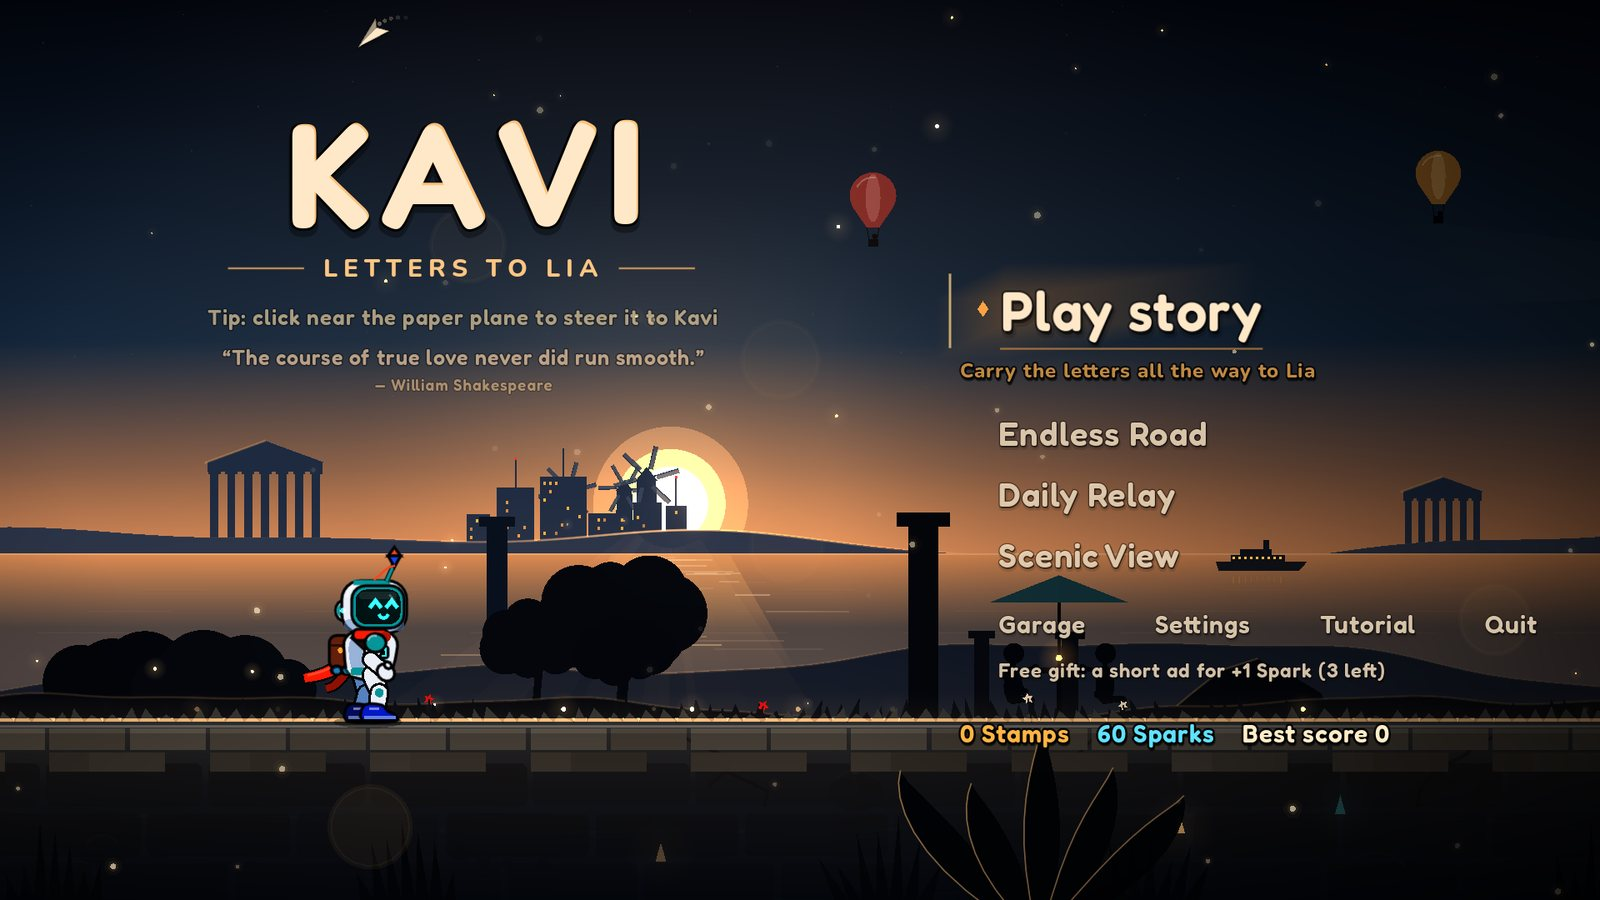
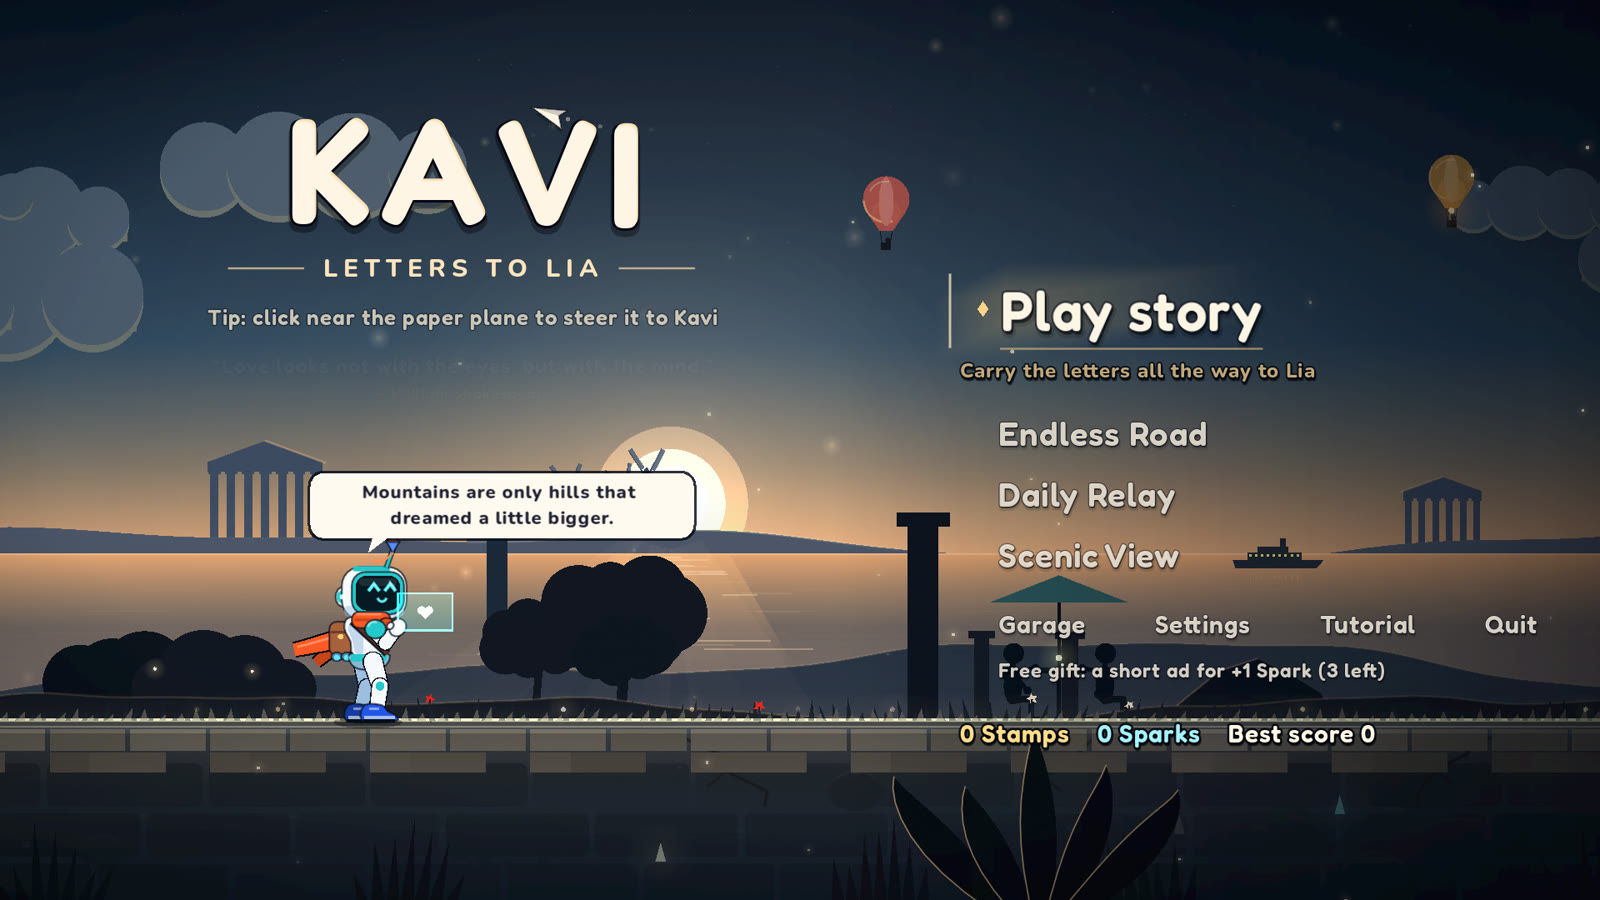
README: new marketing page with fresh screenshots (Kavi, Lia v4, new obstacles, suits, handheld); --market capture mode

diff --git a/README.md b/README.md
@@ -1,68 +1,86 @@
 # KAVI: Letters to Lia
 
-![KAVI: Letters to Lia](docs/media/keyart.jpg)
+![Kavi and Lia meet at last](docs/media/keyart.jpg)
 
-**Kavi** is a little courier robot (his name means "poet") with a screen for a face, a sunset-orange scarf and a bag full of letters. He runs across Europe, from the Greek coast through Bulgarian forests and along the Danube to the Romanian mountains, to reach his friend **Lia**.
+### A little robot. A long road. One letter that has to arrive.
 
-A cozy, family-friendly 2D auto-runner made in Godot 4.7. Everything you see and hear (characters, worlds, obstacles, music) is generated in code.
+**Kavi** (his name means *poet*) is a tiny courier robot with a screen for a face, a sunset-orange scarf and a bag full of letters. Lia is waiting at the other end of Europe. Between them: sea cliffs, lantern forests, a river of mirrors and mountains full of stars.
 
-*(This repo used to be the game VOLT/RUN; Kite and Lumi are now Kavi and Lia.)*
+**A cozy, family-friendly 2D runner** that's quick to pick up and hard to put down. Every picture, song and sound in it is made in code: no stock art, no samples.
 
-## ▶ Play now
+## ▶ Play free, right now
 
-**In your browser, no install: https://badcool-interactive.github.io/KAVI-Letters-To-Lia/**
-Works on desktop, Android (Chrome) and iPhone/iPad (Safari). Turn your phone sideways.
+### **[Play in your browser](https://badcool-interactive.github.io/KAVI-Letters-To-Lia/)** · no install, no account
 
-**Download** the latest build from **[Releases](../../releases/latest)**:
+Or download it from **[Releases](../../releases/latest)**:
 
 | Platform | File | How to run |
 |---|---|---|
 | Windows 10/11 | `KAVI-windows.exe` | Double-click it. It isn't signed yet, so SmartScreen may warn: choose *More info → Run anyway*. |
-| Android | `KAVI-android.apk` | Copy it to the phone, open it, and allow "install unknown apps". Play in landscape. |
+| Android | `KAVI-android.apk` | Open it on the phone and allow "install unknown apps". If Play Protect warns, choose *Install anyway* (preview build). |
 | Linux | `KAVI-linux.x86_64` | `chmod +x KAVI-linux.x86_64 && ./KAVI-linux.x86_64` |
 
-## A world to run through
+## Four countries, one journey
 
-![Four countries](docs/media/countries.jpg)
+![The Amber Shore, Lanternwood, Mirrorwater and Starfall Heights](docs/media/countries.jpg)
 
-Four countries, each with its own sky, music, people and ground: **The Amber Shore** (Greece), **Lanternwood** (Bulgaria), **Mirrorwater** (the Danube) and **Starfall Heights** (Romania). The world changes smoothly as you run, and the sun and moon set behind the hills.
+**The Amber Shore** (Greece) · **Lanternwood** (Bulgaria) · **Mirrorwater** (the Danube) · **Starfall Heights** (Romania)
 
-![Obstacles](docs/media/obstacles.jpg)
+Each country has its own sky, people, ground, obstacles, **its own song** and its own sounds: gulls and waves, a woodpecker in the forest, church bells across the river, cowbells in the mountains. The world flows from one country into the next as you run, and the sun sets behind the hills.
 
-Every country has its own obstacles: Greek amphoras and orange crates, forest log piles, Danube barrels and mountain snowmen to hop over; shop signs on gateways to scoot under; and gaps above the sea, ravines and ice. A perfect clear makes them wobble and burst into confetti.
+## Easy to learn, fun to master
 
-## The title screen is a toy too
+![A runaway cart, a pigeon flock and a parcel tower](docs/media/obstacles.jpg)
 
-![Title screen](docs/media/title.jpg)
+Four moves, one thumb each: **Hop** (hold to hover), **Scoot** (dive in the air), **Gust** (blow things open) and **Letter** (a paper plane that rings bells and drops bridges).
 
-- **Paper-plane mini-game:** click near the plane to push it, and steer it to Kavi so it circles him. Click too fast and it stalls!
-- **Click the sky:** balloons hop and wave (click three times quickly to send one flying), the plane draws a smoke heart, ships toot their horns, and birds scatter.
-- **Kavi's notebook:** his own little poems, mixed with short public-domain love lines from Shakespeare, Byron, Dickinson, Tagore, Burns and others.
+- **Obstacles with personality:** a **runaway fruit cart** rolling straight at you, **pigeons** you can scoot under *or* gust away ("SHOO!"), a wobbly **parcel tower** with a cat napping on top, Greek amphoras, forest log piles, Danube barrels, mountain snowmen, gates, bells and bouncy blooms.
+- **Tailwind:** perfect timing builds x2, x3, x4. **The music grows with you:** at high Tailwind a melody joins the song.
+- **Always fair:** a solver bot checks every stretch of road can be cleared before you see it.
+- **Fail and laugh:** when Kavi trips, he cries dramatically, kicks a rock, or faceplants.
 
 ## Dress him up
 
-![Suits](docs/media/suits.jpg)
+![Kavi in different suits](docs/media/suits.jpg)
 
-Kavi is really a tiny memory chip that can move into new suits: Astro Bubble, Teapot, Bunny, Blocky, Sprout and more. Add paints, visor colours, scarves (stripes and rainbow) and antenna tips, all in the Garage. *Everything is free to try while the game is in development.*
+Kavi is really a tiny memory chip that moves into new suits: **Courier, Explorer, Astro Bubble, Bunny, Lion**, plus kitty, teapot, blocky and a whole zoo of animal costumes. Add paints, visors, faces, scarves, antennas, bags, trails and letter colours in the **Garage**. *Everything is free to try while the game is in development.*
+
+## A pocket console on your phone
+
+![KAVI as a handheld console in portrait](docs/media/handheld.jpg)
+
+Hold your phone upright and KAVI becomes a **handheld console**:
+- a neon marquee and Tailwind lights;
+- an arcade-style score display;
+- a D-pad and A/B buttons that work the menus and swap to game controls when you run;
+- a vibration buzz under your thumb;
+- a power button that saves and turns it off.
+
+Turn the phone sideways for full-screen play.
 
 ## Modes
-- **Story:** four chapters to Lia, with route choices (a countdown, and an easy option if you're unsure), breathers where kind strangers help, a rescue, and the reunion.
-- **Endless Road** and **Daily Relay** (the same track for everyone each day).
-- **Scenic View:** no obstacles, just Kavi running through all four countries.
+- **Story:** four chapters to Lia, with route choices, kind strangers, a rescue, and the reunion.
+- **Endless Road** and **Daily Relay** (the same road for everyone, every day).
+- **Scenic View:** no obstacles. Pick a country, a time of day and the sounds, and just watch Kavi run through Europe.
+- **Tutorial:** 13 quick hands-on lessons; the game pauses until you try each move.
+
+![The title screen](docs/media/title.jpg)
+
+**The title screen is a toy too:** steer the paper plane to Kavi, click balloons, ships and birds, and read Kavi's little poems mixed with public-domain love lines from Shakespeare, Byron, Dickinson and Tagore. Wait too long and he pulls up a chair, or a bed.
 
 ## Controls
 
-| Action | Keyboard | Gamepad | Touch |
+| Action | Keyboard | Gamepad | Touch / handheld |
 |---|---|---|---|
-| Hop (hold for higher; hold in the air to hover) | W / Up / Space | A | left thumb, upper half |
-| Scoot (hold) · dive in the air | S / Down | B | left thumb, lower half |
-| Gust (opens gates) | X | X | right thumb, big button |
-| Letter (paper plane: bells and bridges) | C | Y | right thumb, small button |
-| Pause / back | Esc | Start | top-right button |
+| Hop (hold for higher; hold in the air to hover) | W / Up / Space | A | D-pad up · left thumb, upper half |
+| Scoot (hold) · dive in the air | S / Down | B | D-pad down · left thumb, lower half |
+| Gust (opens gates, shoos pigeons) | X | X | A button · big right button |
+| Letter (paper plane: bells and bridges) | C | Y | B button · small right button |
+| Pause / back | P / Esc / Backspace | Start | Pause button |
 
-Menus work with the mouse, touch, or WASD/arrows plus Enter, Space or E.
-
-**Kind by design:** Kind Mode (no fails), hover assist, relaxed speed, reduced motion, a left-handed layout and bigger buttons. No tracking, and no ads in gameplay.
+**Kind by design:**
+- **Settings:** Kind Mode (no fails), hover assist, relaxed speed, reduced motion, a left-handed layout, bigger buttons, vibration on/off, and Modern or OG sound.
+- **Privacy:** no tracking, no accounts, and no ads during gameplay.
 
 ## For developers
 
@@ -70,6 +88,7 @@ Menus work with the mouse, touch, or WASD/arrows plus Enter, Space or E.
 ../../tools/bin/path/godot --path .                       # run from source (Godot 4.7.2)
 tools/test.sh                                             # headless tests (isolated user data)
 tools/capture.sh /tmp/shots                               # scripted screenshots
+tools/render-music.sh                                     # re-render the songs (synth.gd compose()) to OGG
 VOLT_CAPTURE_ARGS="--obs" tools/capture.sh /tmp/obs       # obstacle review in all four countries
 tools/bench.sh /tmp/bench.json --quality=medium           # performance benchmark
 ```
@@ -79,4 +98,7 @@ Code map: `sim.gd` physics and moves · `track.gd` level generator plus a solver
 See [docs/CHANGELOG.md](docs/CHANGELOG.md) for everything that changed in each version.
 
 ## Credits
-Made by **Badcool Studio**. Fonts: Fredoka and Nunito (SIL Open Font License, in `assets/fonts/`). Title quotes are public-domain poetry, credited in game; the asset ledger is `docs/LEDGER.csv`.
+Made by **BADCOOL INTERACTIVE**. Fonts: Fredoka and Nunito (SIL Open Font License, in `assets/fonts/`). Title quotes are public-domain poetry, credited in game; the asset ledger is `docs/LEDGER.csv`.
+
+---
+© BADCOOL INTERACTIVE · made by Singh Baljeet · all rights reserved for the game, its characters and its art.
